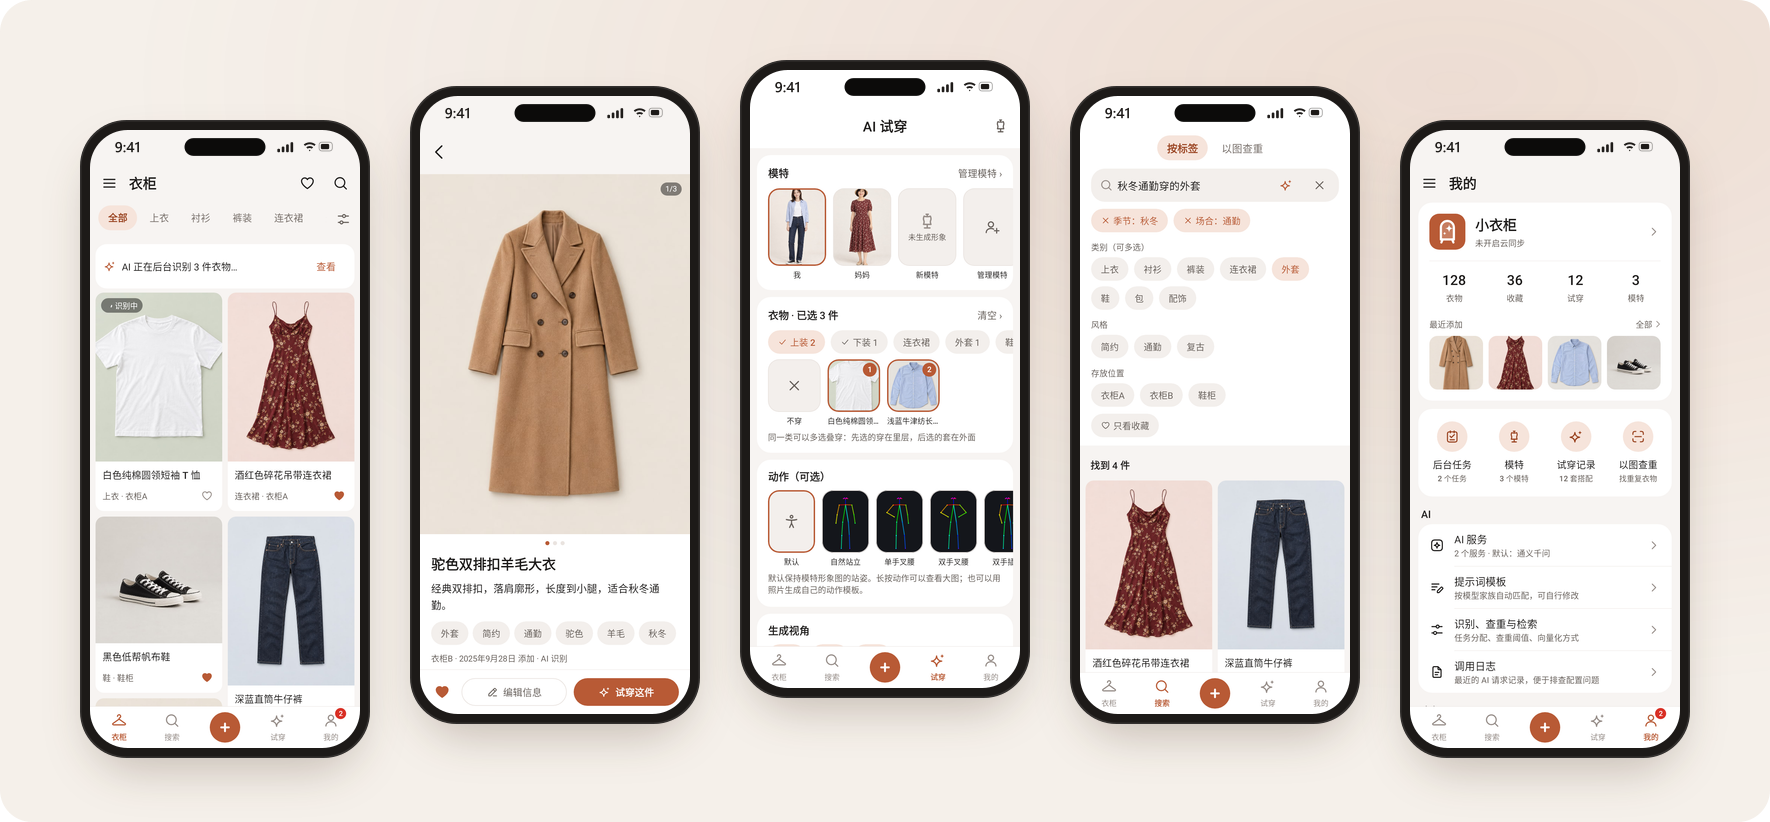
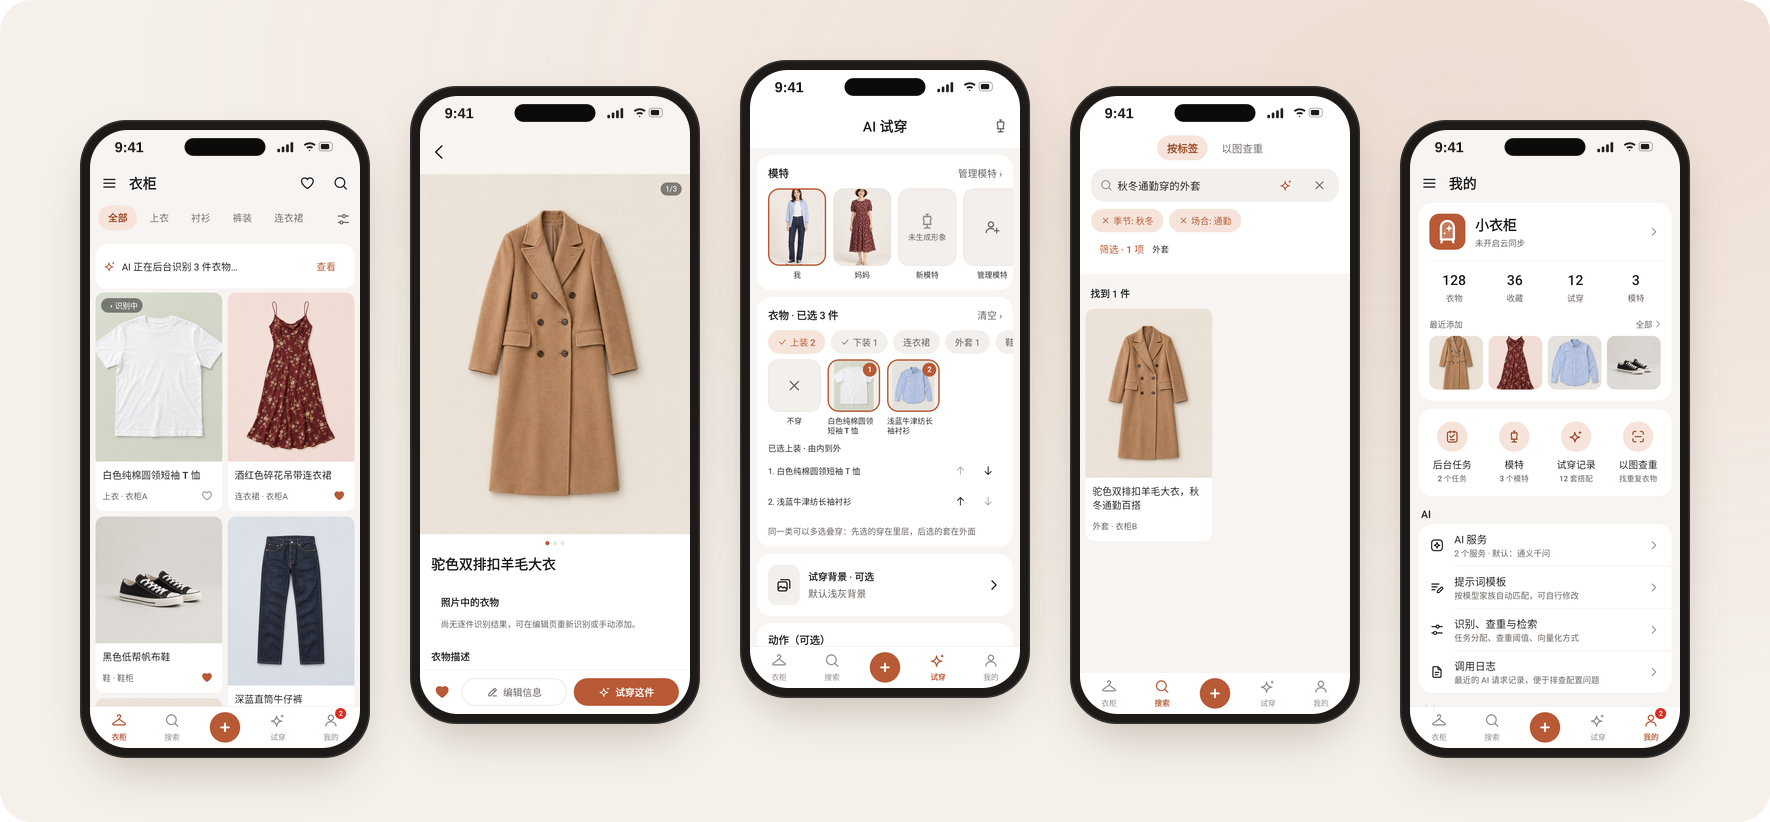
Refresh both README screenshot sets and verify release digests

diff --git a/src/lib/screens.ts b/src/lib/screens.ts
@@ -1,6 +1,7 @@
 // 应用界面截图（应用仓库的 Robolectric 截图测试生成，见 README）及各自状态栏的底色（取截图顶部的颜色，与应用顶栏衔接）
 import type { ImageMetadata } from 'astro'
 import wardrobe from '../assets/screens/wardrobe-light.png'
+import wardrobeEnglish from '../assets/screens/wardrobe-light-en.png'
 import detail from '../assets/screens/garment-detail.png'
 import search from '../assets/screens/search.png'
 import tryOn from '../assets/screens/try-on.png'
@@ -25,6 +26,7 @@ const scrim = '#A7A5A4'
 
 export const screens = {
   wardrobe: { src: wardrobe, bar: paper },
+  wardrobeEnglish: { src: wardrobeEnglish, bar: paper },
   detail: { src: detail, bar: paper },
   search: { src: search, bar: '#FFFFFF' },
   tryOn: { src: tryOn, bar: '#FFFFFF' },

diff --git a/README.md b/README.md
@@ -18,11 +18,11 @@
   <img src="https://img.shields.io/badge/Astro-7-FF5D01?logo=astro&logoColor=white" alt="Astro 7">
 </p>
 
-![Website homepage and mobile download page](docs/readme/site.png)
+![Website homepage and mobile download page](docs/readme/en/site.png)
 
 Wardrobe is an Android app for organizing clothes, tagging photos with AI, searching in your own words, and generating front, side, and back try-on views. This repository hosts its website and [public APK releases](https://github.com/nix18/wardrobe-website/releases).
 
-![Five main screens in the app](docs/readme/banner.png)
+![Five main screens in the app](docs/readme/en/banner.png)
 
 ## Pages and languages
 
@@ -75,6 +75,6 @@ The Pages workflow tests and builds the site, updates `gh-pages` with the verifi
 | `src/assets/screens/` | Run `./gradlew :app:testDebugUnitTest -Pscreenshots` in the app repository |
 | `src/assets/photos/` | Run `npm run gen-images` with `IMAGE_API_BASE` and `IMAGE_API_KEY`. Prompts are in `art/photo-prompts.mjs`. |
 | `public/og.png`, `public/icon-180.png` | Run `npm run og-image` |
-| `docs/readme/` | Run `npm run readme-images`. The website preview also needs two screenshots. |
+| `docs/readme/` | Run `npm run readme-images`. Pass desktop and mobile site captures to generate `site.png`. Use `README_LANGUAGE=en` with `README_SCREEN_DIR` pointed at English app screenshots for the English images. |
 
 The model, garment, and try-on photos on the site are AI-generated examples.

diff --git a/README.zh-CN.md b/README.zh-CN.md
@@ -74,7 +74,7 @@ Pages 来源保持 **Deploy from a branch → gh-pages → /**，`github-pages` 
 | `src/assets/screens/` | 应用的截图测试 | 在应用仓库跑 `./gradlew :app:testDebugUnitTest -Pscreenshots` |
 | `src/assets/photos/` | 图像模型，提示词在 `art/photo-prompts.mjs` | `npm run gen-images`，要设 `IMAGE_API_BASE`、`IMAGE_API_KEY` |
 | `public/og.png`、`public/icon-180.png` | 分享预览图、触屏图标 | `npm run og-image` |
-| `docs/readme/` | 这份 README 的配图 | `npm run readme-images`，网站预览图要另外传两张截图 |
+| `docs/readme/` | 这份 README 的配图 | `npm run readme-images`。网站预览图需要桌面与手机截图。英文配图用 `README_LANGUAGE=en` 和 `README_SCREEN_DIR` 指定英文应用截图。 |
 
 示例照片也是应用截图测试里的样图。网站上的模特、衣物和试穿图都是 AI 生成的，页脚写明了。
 
